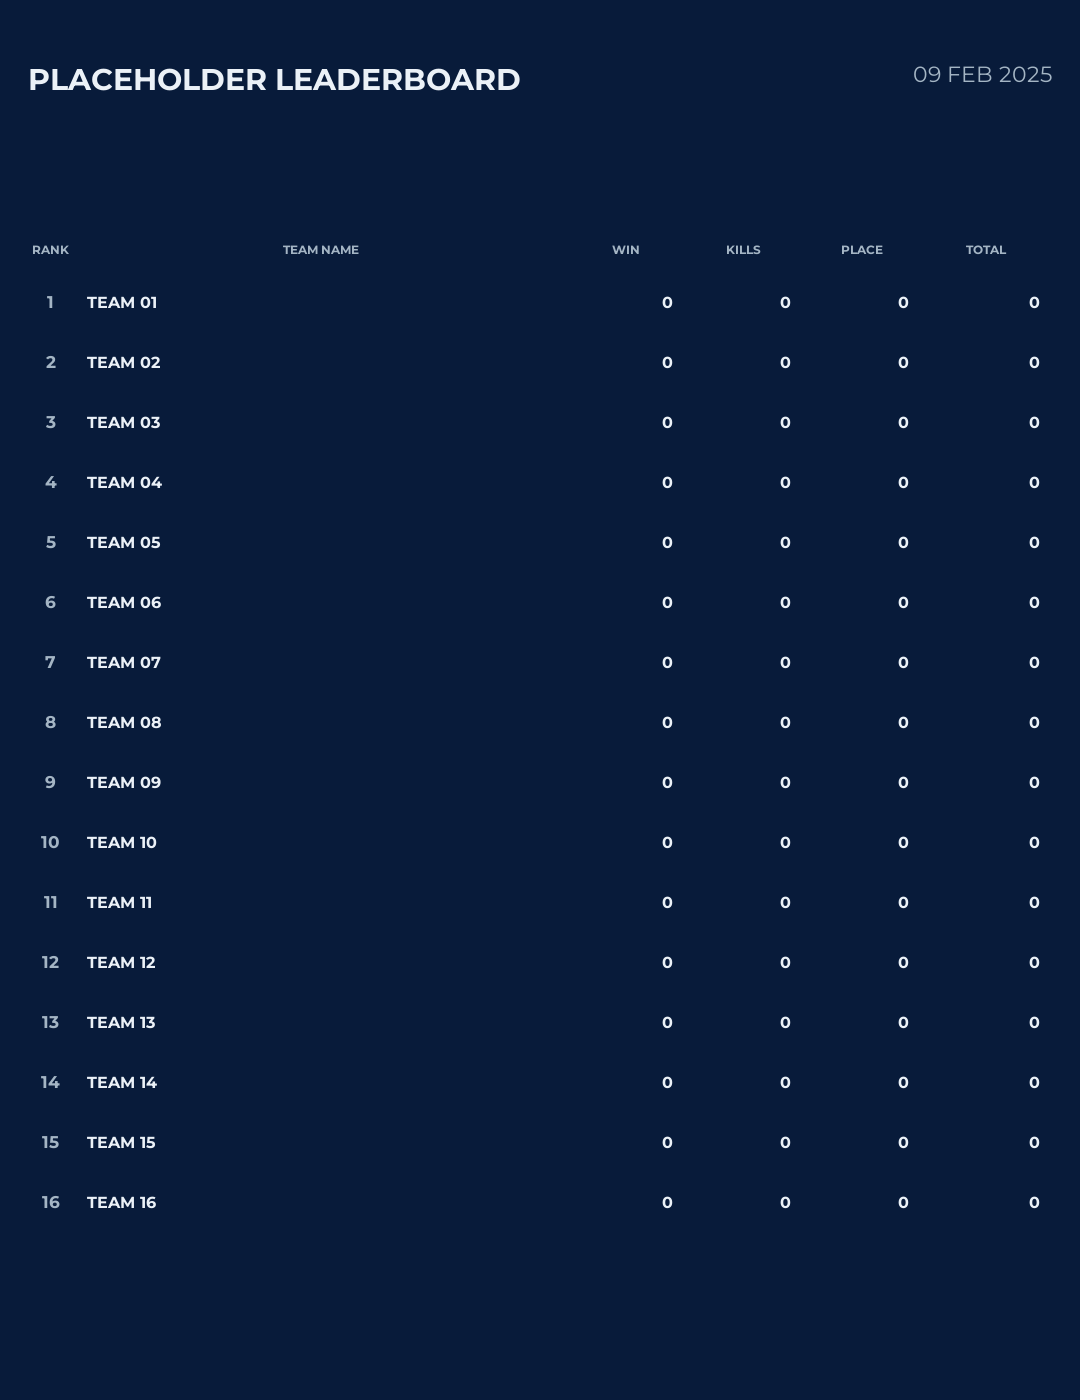
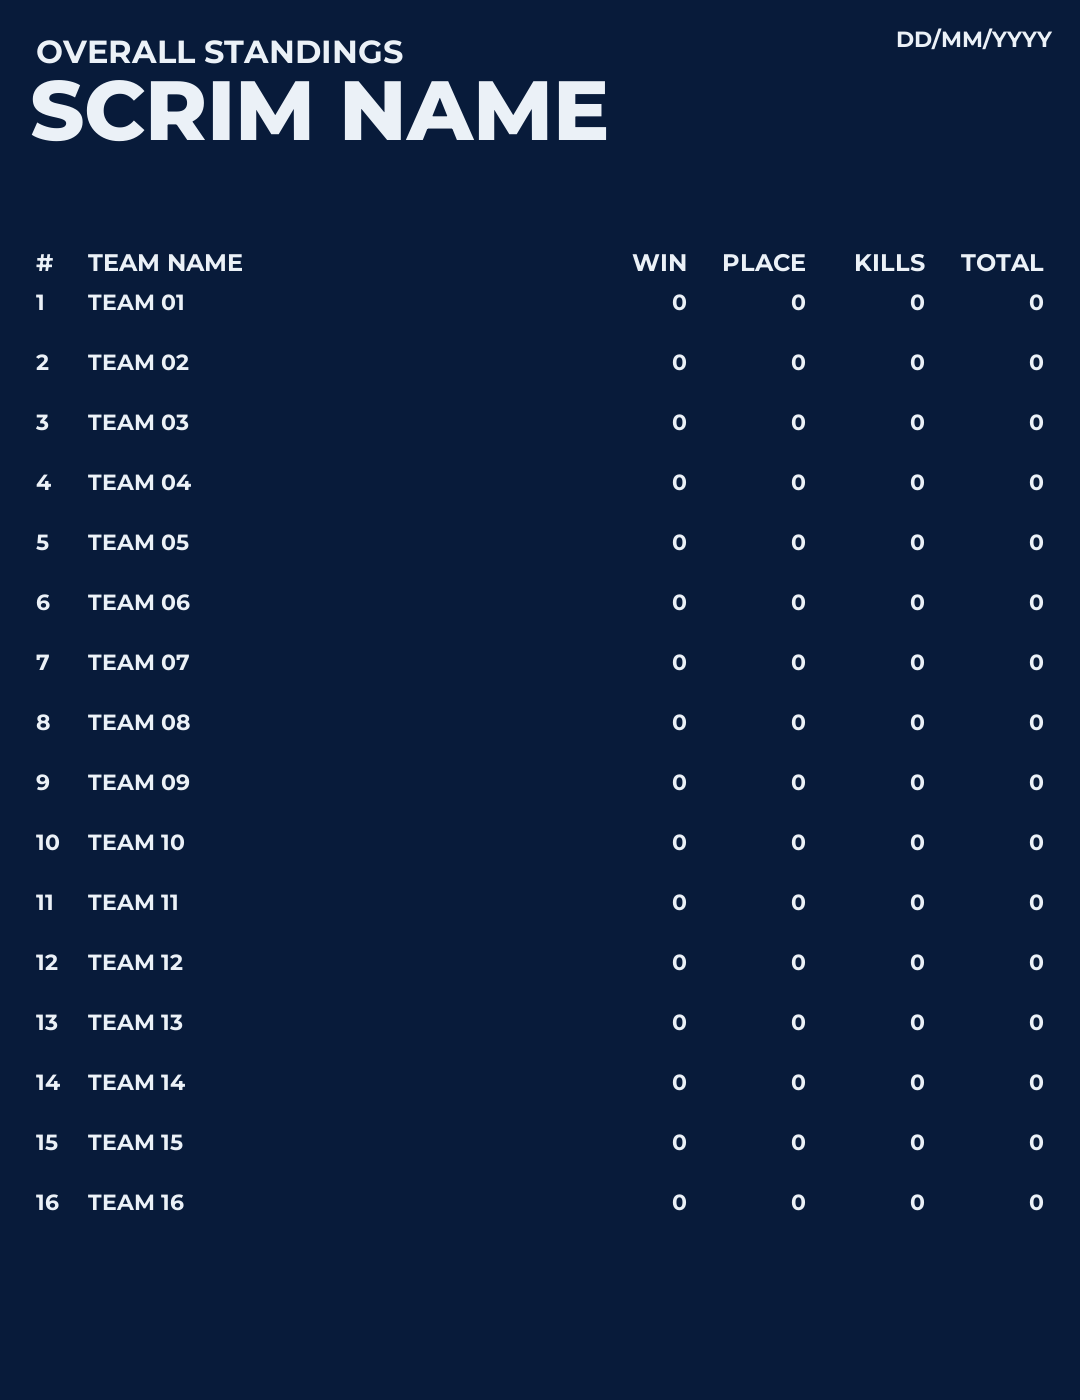
Update Public leaderboard layout and references

diff --git a/main.py b/main.py
@@ -160,19 +160,34 @@ LEADERBOARD_SECTION_GAP = 10
 LEADERBOARD_TABLE_HEADER_HEIGHT = 64
 LEADERBOARD_VERTICAL_ROW_HEIGHT = 60
 LEADERBOARD_HORIZONTAL_ROW_HEIGHT = 80
-LEADERBOARD_VERTICAL_ROW_FONT_SIZE = 21
+LEADERBOARD_VERTICAL_ROW_FONT_SIZE = 22
 LEADERBOARD_HORIZONTAL_ROW_FONT_SIZE = 32
 LEADERBOARD_ROW_FONT_WEIGHT = 700
-LEADERBOARD_DATE_FONT_SIZE = 36
-LEADERBOARD_TITLE_MAX_FONT_SIZE = 96
+LEADERBOARD_DATE_FONT_SIZE = 22
+LEADERBOARD_TITLE_MAX_FONT_SIZE = 84
+LEADERBOARD_TITLE_MIN_FONT_SIZE = 18
+LEADERBOARD_TITLE_FONT_WEIGHT = 800
+LEADERBOARD_SUBTITLE_TITLE_GAP = 16
+LEADERBOARD_SUBTITLE_FONT_SIZE = 32
+LEADERBOARD_METRIC_HEADER_FONT_SIZE = 24
+LEADERBOARD_RANK_LEFT_PADDING = 8
+LEADERBOARD_HORIZONTAL_RANK_LEFT_PADDING = 32
+LEADERBOARD_TITLE_LEFT_PADDING = 2
+LEADERBOARD_OVERLINE_LEFT_PADDING = 8
+LEADERBOARD_OVERLINE_TOP_OFFSET = 12
+LEADERBOARD_METRIC_RIGHT_PADDING = 8
+LEADERBOARD_LEFT_HEADERS = ("#", "TEAM NAME")
+LEADERBOARD_METRIC_HEADERS = ("WIN", "PLACE", "KILLS", "TOTAL")
+LEADERBOARD_TABLE_HEADER_TEXT_OFFSET = 12
 LEADERBOARD_TEAM_NAME_LEFT_PADDING = 12
-LEADERBOARD_HORIZONTAL_FIELD_BASE_WIDTHS = (80, 368, 116, 117, 112, 118)
+LEADERBOARD_HORIZONTAL_FIELD_BASE_WIDTHS = (90, 330, 125, 125, 125, 125)
 LEADERBOARD_HORIZONTAL_FIELD_REFERENCE_WIDTH = 920
-LEADERBOARD_HORIZONTAL_TEAM_NAME_LEFT_PADDING = 24
+LEADERBOARD_HORIZONTAL_RANK_LEFT_PADDING = 32
+LEADERBOARD_HORIZONTAL_TEAM_NAME_LEFT_PADDING = 12
 LEADERBOARD_ROW_TEXT_VERTICAL_OFFSET = 10
 LEADERBOARD_HORIZONTAL_RANK_CELL_CENTER_OFFSETS = (1, 3)
 STANDARD_LEADERBOARD_TEAM_COUNT = 20
-LEADERBOARD_FIELD_BASE_WIDTHS = (48, 500, 120, 120, 120, 116)
+LEADERBOARD_FIELD_BASE_WIDTHS = (48, 500, 119, 119, 119, 119)
 
 
 class LeaderboardBackgroundDimensionsError(ValueError):
@@ -9251,6 +9266,8 @@ def _build_configured_leaderboard_image(
     background_path: Path = LEADERBOARD_BACKGROUND,
 ) -> io.BytesIO:
     orientation, team_limit = _leaderboard_scrim_profile(scrim)
+    # Custom uploads already contain their own title and column labels.
+    render_template_labels = background_path == LEADERBOARD_BACKGROUND
     header_height = DEFAULT_LEADERBOARD_HEADER_HEIGHT
 
     rows = rows[:team_limit]
@@ -9273,31 +9290,74 @@ def _build_configured_leaderboard_image(
         timezone_for_name(getattr(scrim, "timezone", "UTC"))
     ).strftime("%d/%m/%Y")
     date_font = _load_font(LEADERBOARD_DATE_FONT_SIZE, weight=700)
+    date_position = (width - margin, margin)
     draw.text(
-        (width - margin, margin),
+        date_position,
         date_label,
         font=date_font,
         fill=generated_text,
         anchor="rt",
     )
-    if background_path == LEADERBOARD_BACKGROUND:
-        scrim_title = str(getattr(scrim, "name", "") or "").strip()
-        if scrim_title:
-            title_font = _fit_font(
-                scrim_title,
-                max_width=width - 2 * margin,
-                max_height=header_height - 24,
-                max_size=LEADERBOARD_TITLE_MAX_FONT_SIZE,
-                min_size=18,
-                weight=LEADERBOARD_BODY_FONT_WEIGHT,
-            )
-            draw.text(
-                (margin, margin + header_height // 2),
-                scrim_title,
-                font=title_font,
-                fill=generated_text,
-                anchor="lm",
-            )
+    date_bbox = draw.textbbox(
+        date_position,
+        date_label,
+        font=date_font,
+        anchor="rt",
+    )
+    overline_position = (
+        margin + LEADERBOARD_OVERLINE_LEFT_PADDING,
+        margin + LEADERBOARD_OVERLINE_TOP_OFFSET,
+    )
+    overline_text, overline_font = _fit_leaderboard_cell_text(
+        "OVERALL STANDINGS",
+        max_width=max(1, date_bbox[0] - overline_position[0] - 24),
+        max_height=LEADERBOARD_SUBTITLE_FONT_SIZE,
+        max_size=LEADERBOARD_SUBTITLE_FONT_SIZE,
+        min_size=24,
+        weight=700,
+    )
+    if render_template_labels:
+        draw.text(
+            overline_position,
+            overline_text,
+            font=overline_font,
+            fill=generated_text,
+            anchor="lt",
+        )
+    overline_bbox = draw.textbbox(
+        overline_position,
+        overline_text,
+        font=overline_font,
+        anchor="lt",
+    )
+    scrim_title = str(getattr(scrim, "name", "") or "").strip()
+    if not scrim_title:
+        scrim_title = "Leaderboard"
+    title_position = (
+        margin + LEADERBOARD_TITLE_LEFT_PADDING,
+        overline_bbox[3] + LEADERBOARD_SUBTITLE_TITLE_GAP,
+    )
+    title_max_width = max(1, date_bbox[0] - title_position[0] - 24)
+    title_max_height = max(
+        1,
+        margin + header_height - title_position[1] - 12,
+    )
+    title_text, title_font = _fit_leaderboard_cell_text(
+        scrim_title,
+        max_width=title_max_width,
+        max_height=title_max_height,
+        max_size=LEADERBOARD_TITLE_MAX_FONT_SIZE,
+        min_size=LEADERBOARD_TITLE_MIN_FONT_SIZE,
+        weight=LEADERBOARD_TITLE_FONT_WEIGHT,
+    )
+    if render_template_labels:
+        draw.text(
+            title_position,
+            title_text,
+            font=title_font,
+            fill=generated_text,
+            anchor="lt",
+        )
 
     columns = 2 if orientation == "horizontal" else 1
     column_gap = 24 if columns == 2 else 0
@@ -9336,10 +9396,88 @@ def _build_configured_leaderboard_image(
             column_width,
             horizontal=columns == 2,
         )
-        field_centers = tuple(
-            (field_left + field_right) / 2
-            for field_left, field_right in field_ranges
+        rank_left_padding = (
+            LEADERBOARD_HORIZONTAL_RANK_LEFT_PADDING
+            if columns == 2
+            else LEADERBOARD_RANK_LEFT_PADDING
         )
+        team_name_padding = (
+            LEADERBOARD_HORIZONTAL_TEAM_NAME_LEFT_PADDING
+            if columns == 2
+            else LEADERBOARD_TEAM_NAME_LEFT_PADDING
+        )
+        header_y = (
+            table_top
+            + LEADERBOARD_TABLE_HEADER_HEIGHT // 2
+            + LEADERBOARD_TABLE_HEADER_TEXT_OFFSET
+        )
+        left_headers = (
+            (
+                0,
+                LEADERBOARD_LEFT_HEADERS[0],
+                rank_left_padding,
+            ),
+            (
+                1,
+                LEADERBOARD_LEFT_HEADERS[1],
+                team_name_padding,
+            ),
+        ) if render_template_labels else ()
+        for field_index, header, left_padding in left_headers:
+            header_text, header_font = _fit_leaderboard_cell_text(
+                header,
+                max_width=(
+                    field_ranges[field_index][1]
+                    - field_ranges[field_index][0]
+                    - left_padding
+                    - 4
+                ),
+                max_height=LEADERBOARD_TABLE_HEADER_HEIGHT - 12,
+                max_size=LEADERBOARD_METRIC_HEADER_FONT_SIZE,
+                min_size=11,
+                weight=700,
+            )
+            draw.text(
+                (
+                    field_ranges[field_index][0] + left_padding,
+                    header_y,
+                ),
+                header_text,
+                font=header_font,
+                fill=generated_text,
+                anchor="lm",
+            )
+        metric_headers = (
+            LEADERBOARD_METRIC_HEADERS if render_template_labels else ()
+        )
+        for field_index, header in enumerate(
+            metric_headers,
+            start=2,
+        ):
+            header_text, header_font = _fit_leaderboard_cell_text(
+                header,
+                max_width=(
+                    field_ranges[field_index][1]
+                    - field_ranges[field_index][0]
+                    - LEADERBOARD_METRIC_RIGHT_PADDING
+                    - 4
+                ),
+                max_height=LEADERBOARD_TABLE_HEADER_HEIGHT - 12,
+                max_size=LEADERBOARD_METRIC_HEADER_FONT_SIZE,
+                min_size=16,
+                weight=700,
+            )
+            draw.text(
+                (
+                    field_ranges[field_index][1]
+                    - LEADERBOARD_METRIC_RIGHT_PADDING,
+                    header_y,
+                ),
+                header_text,
+                font=header_font,
+                fill=generated_text,
+                anchor="rm",
+            )
         for row_index in range(per_column_capacity):
             y = row_top + row_index * row_height
             text_y = y + row_height // 2
@@ -9347,39 +9485,29 @@ def _build_configured_leaderboard_image(
             rank = column_index * per_column_capacity + row_index + 1
             rank_text, rank_font = _fit_leaderboard_cell_text(
                 str(rank),
-                max_width=field_ranges[0][1] - field_ranges[0][0] - 4,
+                max_width=(
+                    field_ranges[0][1]
+                    - field_ranges[0][0]
+                    - rank_left_padding
+                    - 4
+                ),
                 max_height=row_height - 8,
                 max_size=row_font,
                 weight=LEADERBOARD_ROW_FONT_WEIGHT,
             )
-            rank_cell_center = field_centers[0]
-            if columns == 2:
-                rank_cell_center += (
-                    LEADERBOARD_HORIZONTAL_RANK_CELL_CENTER_OFFSETS[column_index]
-                )
-            rank_bbox = draw.textbbox(
-                (0, 0),
-                rank_text,
-                font=rank_font,
-                anchor="mm",
-            )
-            rank_ink_center_offset = (rank_bbox[0] + rank_bbox[2]) / 2
-            rank_x = rank_cell_center - rank_ink_center_offset
             draw.text(
-                (rank_x, text_y),
+                (
+                    field_ranges[0][0] + rank_left_padding,
+                    text_y,
+                ),
                 rank_text,
                 font=rank_font,
                 fill=generated_text,
-                anchor="mm",
+                anchor="lm",
             )
             if row_index >= len(column_rows):
                 continue
             row = column_rows[row_index]
-            team_name_padding = (
-                LEADERBOARD_HORIZONTAL_TEAM_NAME_LEFT_PADDING
-                if columns == 2
-                else LEADERBOARD_TEAM_NAME_LEFT_PADDING
-            )
             team_text, team_font = _fit_leaderboard_cell_text(
                 row.team_name,
                 max_width=max(
@@ -9418,18 +9546,23 @@ def _build_configured_leaderboard_image(
                     max_width=(
                         field_ranges[field_index][1]
                         - field_ranges[field_index][0]
-                        - 10
+                    - LEADERBOARD_METRIC_RIGHT_PADDING
+                    - 4
                     ),
                     max_height=row_height - 8,
                     max_size=row_font,
                     weight=LEADERBOARD_ROW_FONT_WEIGHT,
                 )
                 draw.text(
-                    (field_centers[field_index], text_y),
+                    (
+                        field_ranges[field_index][1]
+                        - LEADERBOARD_METRIC_RIGHT_PADDING,
+                        text_y,
+                    ),
                     value_text,
                     font=value_font,
                     fill=generated_text,
-                    anchor="mm",
+                    anchor="rm",
                 )
     buffer = io.BytesIO()
     output.convert("RGB").save(buffer, format="PNG", optimize=True)
